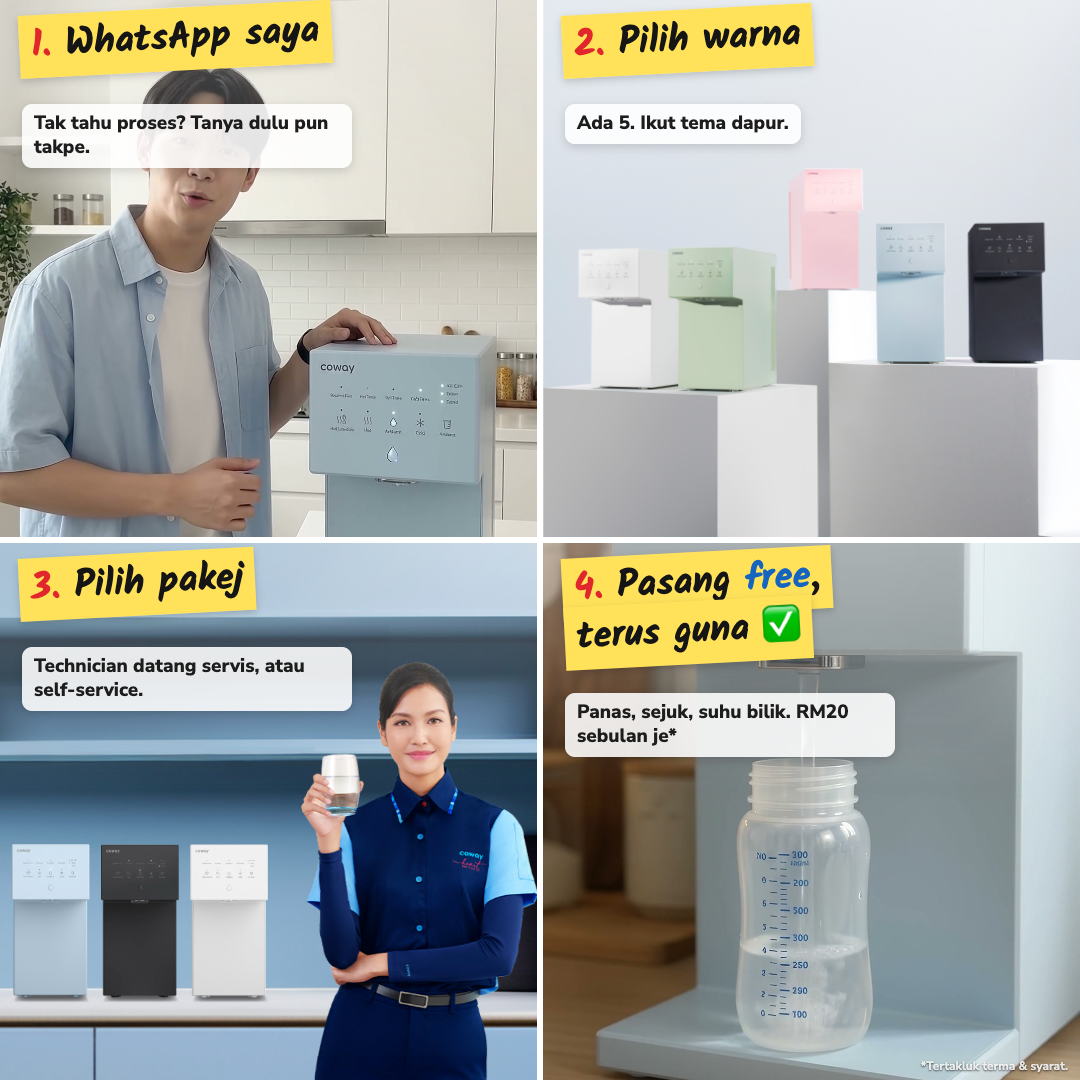
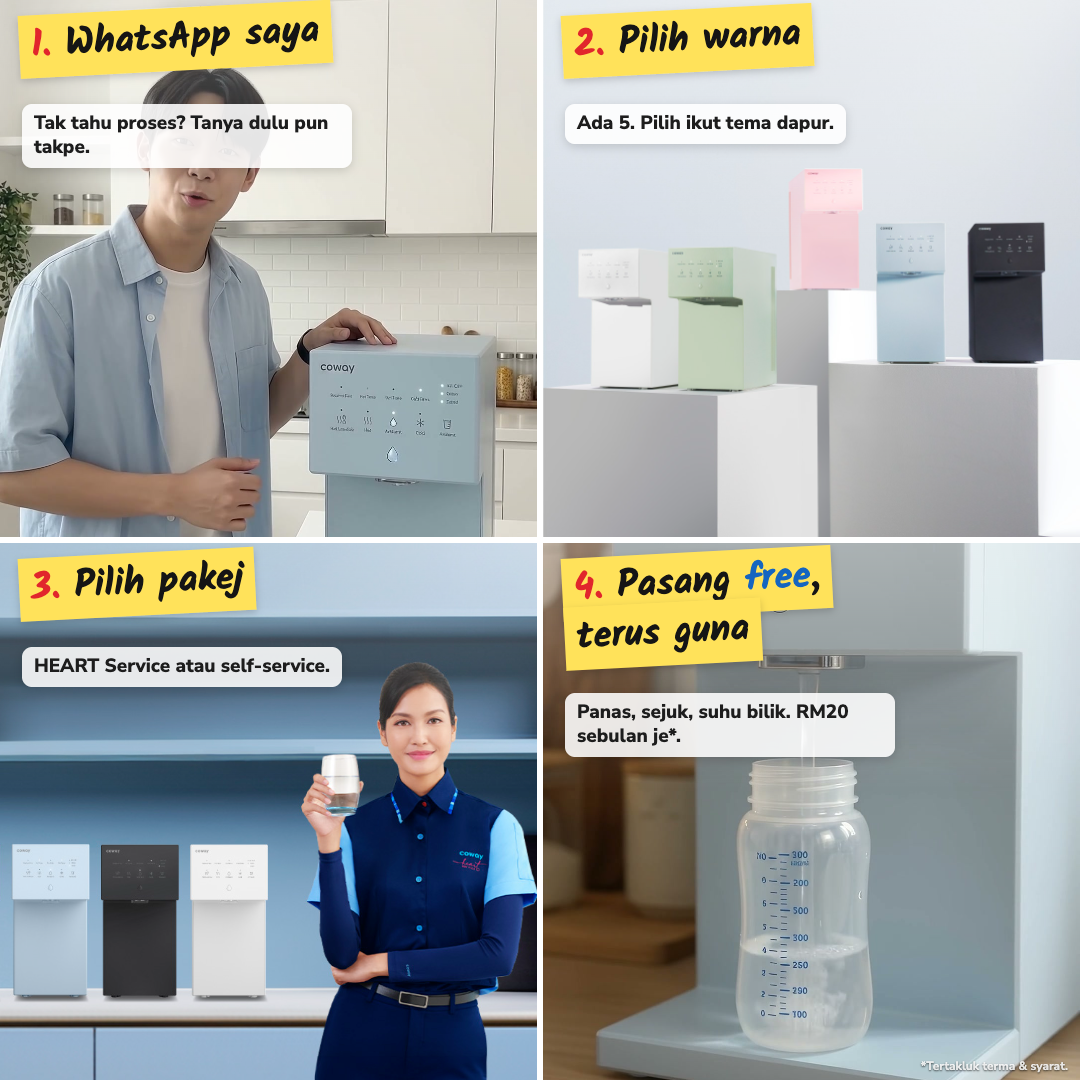
neon-grid-01: copy v2 ditulis Codex, label panel dikemas kini dan dirender semula

Changed region(s): [[0.0, 0.5806, 0.3361, 0.6722], [0.5806, 0.0917, 0.7944, 0.1528], [0.7028, 0.55, 0.7639, 0.6111]]

diff --git a/projek/neon-grid-01/grid.html b/projek/neon-grid-01/grid.html
@@ -72,31 +72,31 @@ const circ=(img,lab,x,y)=>`<div class="circ" style="left:${x}px;top:${y}px"><img
 const GRIDS = [
  // NE05 — Pukul 3 pagi
  {id:'g1-pukul-3-pagi', p:[
-  {img:'sibuk-b.jpg', pos:'50% 62%', l:'Pukul 3 pagi,\n{r:baby menangis} 😩', s:'Susu kena siap sekarang. Mata separuh terbuka...', st:150},
+  {img:'sibuk-b.jpg', pos:'50% 62%', l:'Pukul 3 pagi,\n{r:baby menangis}', s:'Susu kena siap sekarang.', st:150},
   {prod:1, l:'Pasang Coway {b:NeoN} je!', chips:[['temp','Panas, sejuk, suhu bilik'],['tap','Tekan je, 250ml berhenti sendiri'],['color','5 pilihan warna']]},
-  {img:'tuang.jpg', pos:'50% 72%', l:'Tekan je,\n{b:air terus keluar} ✅', s:'Tak payah jerang, tak payah tunggu.', st:150},
-  {img:'ke-baby.jpg', pos:'50% 55%', l:'Malam pun\n{b:tak kelam-kabut} 😊', s:''},
+  {img:'tuang.jpg', pos:'50% 72%', l:'Tekan je,\n{b:air terus keluar}', s:'Tak payah jerang, tak payah tunggu.', st:150},
+  {img:'ke-baby.jpg', pos:'50% 55%', l:'Malam pun\n{b:tak kelam-kabut}', s:''},
  ]},
  // NE09 — 3 tanda
  {id:'g2-3-tanda', p:[
-  {img:'presenter.jpg', pos:'50% 40%', l:'{r:1.} Dapur kecil? 🤔', s:'NeoN kecil, sejengkal je. Tak makan ruang.', st:104},
-  {img:'self-service.jpg', pos:'50% 50%', l:'{r:2.} Selalu sibuk?', s:'Ambil pakej self-service. Filter dihantar tiap 8 bulan.', st:104},
-  {img:'tekan.jpg', pos:'50% 58%', l:'{r:3.} Ada budak kecil?', s:'Air panas berkunci. Kena tekan 3 saat.', st:104},
-  {img:'../../../assets/img/neon/podium5.jpg', pos:'50% 60%', l:'Bonus: {b:5 warna}! ✅', s:'Panas, sejuk, suhu bilik. RM20 sebulan je*', st:104, tnc:1},
+  {img:'presenter.jpg', pos:'50% 40%', l:'{r:1.} Dapur kecil? 🤔', s:'NeoN kecik, sejengkal je.', st:104},
+  {img:'self-service.jpg', pos:'50% 50%', l:'{r:2.} Selalu sibuk?', s:'Self-service, filter dihantar tiap 8 bulan.', st:104},
+  {img:'tekan.jpg', pos:'50% 58%', l:'{r:3.} Ada budak kecil?', s:'Air panas berkunci, tekan 3 saat.', st:104},
+  {img:'../../../assets/img/neon/podium5.jpg', pos:'50% 60%', l:'Bonus: {b:5 warna}!', s:'Panas, sejuk, suhu bilik. RM20 sebulan je*.', st:104, tnc:1},
  ]},
  // NE10 — 4 langkah
  {id:'g3-4-langkah', p:[
   {img:'presenter.jpg', pos:'50% 40%', l:'{r:1.} WhatsApp saya', s:'Tak tahu proses? Tanya dulu pun takpe.', st:104},
-  {img:'../../../assets/img/neon/podium5.jpg', pos:'50% 60%', l:'{r:2.} Pilih warna', s:'Ada 5. Ikut tema dapur.', st:104},
-  {img:'heart-service.jpg', pos:'88% 50%', l:'{r:3.} Pilih pakej', s:'Technician datang servis, atau self-service.', st:104},
-  {img:'tuang.jpg', pos:'50% 72%', l:'{r:4.} Pasang {b:free},\nterus guna ✅', s:'Panas, sejuk, suhu bilik. RM20 sebulan je*', st:150, tnc:1},
+  {img:'../../../assets/img/neon/podium5.jpg', pos:'50% 60%', l:'{r:2.} Pilih warna', s:'Ada 5. Pilih ikut tema dapur.', st:104},
+  {img:'heart-service.jpg', pos:'88% 50%', l:'{r:3.} Pilih pakej', s:'HEART Service atau self-service.', st:104},
+  {img:'tuang.jpg', pos:'50% 72%', l:'{r:4.} Pasang {b:free},\nterus guna', s:'Panas, sejuk, suhu bilik. RM20 sebulan je*.', st:150, tnc:1},
  ]},
  // NE01 — Bajet kecil
  {id:'g4-bajet-kecil', p:[
-  {img:'../../../assets/img/neon/podium5.jpg', pos:'50% 60%', l:'Bajet kecil,\n{r:tak boleh cantik?} 🤔', s:'Siapa kata?', st:150},
+  {img:'../../../assets/img/neon/podium5.jpg', pos:'50% 60%', l:'Bajet kecil,\n{r:tak boleh cantik?}', s:'Siapa kata?', st:150},
   {prod:1, l:'Ni Coway {b:NeoN}', chips:[['color','5 warna: pink, mint, biru, kelabu, putih'],['temp','Panas, sejuk, suhu bilik'],['size','Kecik, sejengkal je']]},
-  {img:'presenter.jpg', pos:'50% 40%', l:'Ngam untuk\n{b:dapur kecil} ✅', s:'', st:150},
-  {img:'tuang.jpg', pos:'50% 72%', l:'Dapur cantik,\n{b:air pun bersih} 😊', s:'Siap hantar & pasang free*', st:150, tnc:1},
+  {img:'presenter.jpg', pos:'50% 40%', l:'Ngam untuk\n{b:dapur kecil}', s:'', st:150},
+  {img:'tuang.jpg', pos:'50% 72%', l:'Dapur cantik,\n{b:air terus ada}', s:'Siap hantar & pasang free*.', st:150, tnc:1},
  ]},
 ];
 

diff --git a/projek/neon-grid-01/copy.md b/projek/neon-grid-01/copy.md
@@ -1,46 +1,137 @@
 # Copy Threads: grid 4 panel NeoN
 
-Gaya rujukan: iklan Threads mop (hook HURUF BESAR + grid 2×2 label kuning). Audiens: pelanggan akhir. CTA ke WhatsApp ejen.
-Setiap grid = satu video NE dari pakej WP pertama (skrip `videos/NExx/lines.json`). Harga ikut tawaran semasa NeoN (RM20 sebulan + hantar & pasang free, disahkan 4 Nov 2026 dalam neon-flow-01), bukan RM54 + rebat dalam video asal.
+Gaya: caption Threads/Meta dengan hook HURUF BESAR + grid 2×2 label kuning tulisan tangan. Audiens: pelanggan akhir. CTA ke WhatsApp ejen.
 
-## G1 · Pukul 3 pagi (NE05) · `out/neon-grid-01/g1-pukul-3-pagi.png`
+## G1 · Pukul 3 pagi (NE05)
+**Primary text:**
+PUKUL 3 PAGI, BABY MENANGIS. SUSU KENA SIAP 😩
 
-PUKUL 3 PAGI, BABY MENANGIS. SUSU KENA SIAP SEKARANG 😩
-
-Dengan Coway NeoN, tekan je, air terus keluar.
-Panas, sejuk, suhu bilik. 5 pilihan warna.
+Mata separuh terbuka, tapi air kena ada cepat.
+Tekan je. Pilih panas, sejuk, atau suhu bilik.
+Coway NeoN ada 5 pilihan warna untuk dapur awak.
 RM20 sebulan je, siap hantar & pasang free*.
 WhatsApp saya, tanya dulu pun takpe.
 *Tertakluk terma & syarat.
 
-## G2 · 3 tanda (NE09) · `out/neon-grid-01/g2-3-tanda.png`
+**Headline:** Pukul 3 Pagi Pun Senang
 
+**Panel:**
+
+1. **Gambar:** `sibuk-b.jpg`
+   **Label utama:** Pukul 3 pagi,
+   {r:baby menangis}
+   **Subteks:** Susu kena siap sekarang.
+
+2. **Produk:** `neon-ciel-34.png`
+   **Label utama:** Pasang Coway {b:NeoN} je!
+   **Cip ciri:**
+   - Panas, sejuk, suhu bilik
+   - Tekan je, 250ml berhenti sendiri
+   - 5 pilihan warna
+
+3. **Gambar:** `tuang.jpg`
+   **Label utama:** Tekan je,
+   {b:air terus keluar}
+   **Subteks:** Tak payah jerang, tak payah tunggu.
+
+4. **Gambar:** `ke-baby.jpg`
+   **Label utama:** Malam pun
+   {b:tak kelam-kabut}
+
+## G2 · 3 tanda (NE09)
+**Primary text:**
 DAPUR KECIL? SELALU SIBUK? ADA BUDAK KECIL? 🤔
 
-Kalau ada satu pun, NeoN memang ngam untuk rumah awak.
-Kecik, sejengkal je. Air panas berkunci.
-Panas, sejuk, suhu bilik. Ada 5 warna.
+Kalau satu pun kena, NeoN mungkin ngam untuk rumah awak.
+Kecik, sejengkal je. Ada pilihan self-service untuk yang sibuk.
+Panas, sejuk, suhu bilik. Ada 5 pilihan warna.
 RM20 sebulan je, siap hantar & pasang free*.
-WhatsApp saya, saya kira pakej yang ngam.
+WhatsApp saya, tanya dulu pun takpe.
 *Tertakluk terma & syarat.
 
-## G3 · 4 langkah (NE10) · `out/neon-grid-01/g3-4-langkah.png`
+**Headline:** 3 Tanda NeoN Ngam
 
+**Panel:**
+
+1. **Gambar:** `presenter.jpg`
+   **Label utama:** {r:1.} Dapur kecil? 🤔
+   **Subteks:** NeoN kecik, sejengkal je.
+
+2. **Gambar:** `self-service.jpg`
+   **Label utama:** {r:2.} Selalu sibuk?
+   **Subteks:** Self-service, filter dihantar tiap 8 bulan.
+
+3. **Gambar:** `tekan.jpg`
+   **Label utama:** {r:3.} Ada budak kecil?
+   **Subteks:** Air panas berkunci, tekan 3 saat.
+
+4. **Gambar:** `podium5.jpg`
+   **Label utama:** Bonus: {b:5 warna}!
+   **Subteks:** Panas, sejuk, suhu bilik. RM20 sebulan je*.
+
+## G3 · 4 langkah (NE10)
+**Primary text:**
 NAK PASANG COWAY TAPI TAK TAHU PROSES? SENANG JE ✅
 
-WhatsApp saya, pilih warna, pilih pakej.
-Lepas tu technician datang pasang, free*.
-Panas, sejuk, suhu bilik. Terus guna.
+Mula dengan WhatsApp saya. Lepas tu pilih warna dan pakej.
+Technician datang pasang free. Siap, terus boleh guna.
+Panas, sejuk, suhu bilik. Ada 5 pilihan warna.
 RM20 sebulan je*.
 Tanya dulu pun takpe.
 *Tertakluk terma & syarat.
 
-## G4 · Bajet kecil (NE01) · `out/neon-grid-01/g4-bajet-kecil.png`
+**Headline:** Pasang NeoN, 4 Langkah Je
 
-SIAPA KATA BAJET KECIL TAK BOLEH CANTIK? 🤔
+**Panel:**
 
-Coway NeoN ada 5 warna. Pilih ikut tema dapur.
-Panas, sejuk, suhu bilik. Kecik, sejengkal je.
+1. **Gambar:** `presenter.jpg`
+   **Label utama:** {r:1.} WhatsApp saya
+   **Subteks:** Tak tahu proses? Tanya dulu pun takpe.
+
+2. **Gambar:** `podium5.jpg`
+   **Label utama:** {r:2.} Pilih warna
+   **Subteks:** Ada 5. Pilih ikut tema dapur.
+
+3. **Gambar:** `heart-service.jpg`
+   **Label utama:** {r:3.} Pilih pakej
+   **Subteks:** HEART Service atau self-service.
+
+4. **Gambar:** `tuang.jpg`
+   **Label utama:** {r:4.} Pasang {b:free},
+   terus guna
+   **Subteks:** Panas, sejuk, suhu bilik. RM20 sebulan je*.
+
+## G4 · Bajet kecil (NE01)
+**Primary text:**
+BAJET KECIL, NAK DAPUR CANTIK? BOLEH JE 🤔
+
+Coway NeoN ada 5 pilihan warna. Pilih yang ngam dengan dapur.
+Kecik, sejengkal je. Panas, sejuk, suhu bilik pun ada.
 RM20 sebulan je, siap hantar & pasang free*.
 WhatsApp saya, tanya dulu pun takpe.
 *Tertakluk terma & syarat.
+
+**Headline:** Bajet Kecil, Dapur Cantik
+
+**Panel:**
+
+1. **Gambar:** `podium5.jpg`
+   **Label utama:** Bajet kecil,
+   {r:tak boleh cantik?}
+   **Subteks:** Siapa kata?
+
+2. **Produk:** `neon-ciel-34.png`
+   **Label utama:** Ni Coway {b:NeoN}
+   **Cip ciri:**
+   - 5 warna: pink, mint, biru, kelabu, putih
+   - Panas, sejuk, suhu bilik
+   - Kecik, sejengkal je
+
+3. **Gambar:** `presenter.jpg`
+   **Label utama:** Ngam untuk
+   {b:dapur kecil}
+
+4. **Gambar:** `tuang.jpg`
+   **Label utama:** Dapur cantik,
+   {b:air terus ada}
+   **Subteks:** Siap hantar & pasang free*.

diff --git a/projek/neon-grid-01/README.md b/projek/neon-grid-01/README.md
@@ -8,7 +8,7 @@ Poster 1080×1080 untuk iklan Threads/Meta (pelanggan akhir), gaya rujukan iklan
 | G2 3 tanda | NE09 | out/neon-grid-01/g2-3-tanda.png | ⏳ draf |
 | G3 4 langkah | NE10 | out/neon-grid-01/g3-4-langkah.png | ⏳ draf |
 | G4 Bajet kecil | NE01 | out/neon-grid-01/g4-bajet-kecil.png | ⏳ draf |
-| Copy Threads | — | copy.md | ⏳ draf |
+| Copy Threads + headline + label panel (Codex) | — | copy.md | ⏳ draf v2 |
 | 7 Iklan | — | | — |
 
 ## Cara bina
@@ -24,6 +24,8 @@ Poster 1080×1080 untuk iklan Threads/Meta (pelanggan akhir), gaya rujukan iklan
 - 2026-11-19: user minta guna skrip pakej 30 video penapis air dan mampatkan beberapa video Neon ke grid 4 panel macam iklan mop. Pilih NE05, NE09, NE10, NE01. (user + Claude)
 - 2026-11-19: harga ikut tawaran semasa (RM20 sebulan + hantar & pasang free), bukan RM54 + rebat dalam video asal. Ukuran tulis "sejengkal je". (Claude, ikut coway-gaya-bahasa)
 - 2026-11-19: close-up unit dari klip presenter/press_pour ada tulisan butang herot (klip AI) → panel pakej guna gambar rasmi self-service & heart service.
+
+- 2026-11-19: copy (caption, headline, label panel) ditulis semula oleh Codex ikut AGENTS.md; label tanpa emoji, G4 panel 4 "air terus ada". Lulus semak_gaya. (user minta Codex)
 
 ## Terbuka
 - [ ] User luluskan 4 grid + copy
